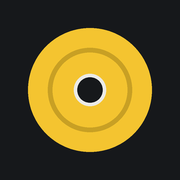
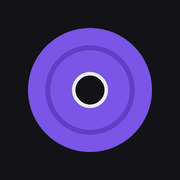
Switch the theme to charcoal greys with a midnight-purple accent
- Tokens: violet-tinted charcoal greys, --accent #7a55e6 dark / #5b3cc4
  light (white text 4.9:1+, 3.5:1 against dark surfaces), lavender
  --accent-ink for purple text. Toggles now use the accent.
- Chart colour --viz #8b6cf0 dark / #6a4bd6 light, both passing the
  dataviz palette validator against their surface.
- App icons, manifest/theme-color and the share image redrawn in the new
  colours. Set-type badges keep their bumper-plate colours.

diff --git a/src/styles.css b/src/styles.css
@@ -1,56 +1,65 @@
-/* Chalk — gym-floor graphite, chalk-white type, bumper-plate colour coding.
-   Set badges are little plates: yellow W (warm-up), red F (failure), blue D (drop),
-   and a checked set turns the row plate-green. */
+/* Chalk — violet-tinted charcoal greys with a midnight-purple accent.
+   Set badges keep bumper-plate colours: yellow W (warm-up), red F (failure),
+   blue D (drop), and a checked set turns the row plate-green. */
 
 :root,
 :root[data-theme='dark'] {
   color-scheme: dark;
-  --bg: #16181b;
-  --surface: #1f2226;
-  --surface-2: #292d32;
-  --surface-3: #353a40;
-  --line: #2f343a;
-  --text: #ecebe6;
-  --text-2: #a7abb1;
-  --text-3: #767b83;
-  --accent: #f4c430;
-  --on-accent: #17181a;
-  --accent-ink: #f4c430;
+  --bg: #131217;
+  --surface: #1b1a21;
+  --surface-2: #25242c;
+  --surface-3: #302f38;
+  --line: #2b2a33;
+  --text: #ecebf2;
+  --text-2: #a7a5b3;
+  --text-3: #76747f;
+  /* Fills with white text (4.9:1) and indicators on surfaces (3.5:1). */
+  --accent: #7a55e6;
+  --on-accent: #ffffff;
+  /* Purple text and icons on dark surfaces. */
+  --accent-ink: #b39dff;
   --done: #2e9e5b;
   --done-bg: rgb(46 158 91 / 0.16);
   --warm: #f4c430;
   --fail: #e5484d;
   --drop: #4c8df6;
   --danger: #ff6b6b;
-  --viz: #b98600;
-  --viz-wash: rgb(185 134 0 / 0.1);
-  --grid: #2a2e33;
-  --shadow: 0 10px 30px rgb(0 0 0 / 0.45);
+  --viz: #8b6cf0;
+  --viz-wash: rgb(139 108 240 / 0.12);
+  --grid: #26252d;
+  --shadow: 0 10px 30px rgb(0 0 0 / 0.5);
+  /* Google's sign-in button colours, dark variant. */
+  --google-bg: #131314;
+  --google-line: #8e918f;
+  --google-text: #e3e3e3;
 }
 
 :root[data-theme='light'] {
   color-scheme: light;
-  --bg: #f3f4f6;
+  --bg: #f3f3f6;
   --surface: #ffffff;
-  --surface-2: #eceef1;
-  --surface-3: #dfe2e6;
-  --line: #e1e4e8;
-  --text: #16181b;
-  --text-2: #4f555d;
-  --text-3: #7a8089;
-  --accent: #f4c430;
-  --on-accent: #17181a;
-  --accent-ink: #8a6400;
+  --surface-2: #ececf0;
+  --surface-3: #dedde4;
+  --line: #e2e1e8;
+  --text: #16151b;
+  --text-2: #52505e;
+  --text-3: #7a7886;
+  --accent: #5b3cc4;
+  --on-accent: #ffffff;
+  --accent-ink: #5233b3;
   --done: #1f8a4c;
   --done-bg: rgb(31 138 76 / 0.12);
   --warm: #a87a00;
   --fail: #d1343a;
   --drop: #2f6fdb;
   --danger: #c62828;
-  --viz: #a87a00;
-  --viz-wash: rgb(168 122 0 / 0.1);
-  --grid: #e8eaed;
-  --shadow: 0 10px 30px rgb(20 24 28 / 0.14);
+  --viz: #6a4bd6;
+  --viz-wash: rgb(106 75 214 / 0.1);
+  --grid: #e9e8ee;
+  --shadow: 0 10px 30px rgb(20 18 28 / 0.14);
+  --google-bg: #ffffff;
+  --google-line: #747775;
+  --google-text: #1f1f1f;
 }
 
 :root {
@@ -482,7 +491,7 @@ p {
 }
 
 .toggle input:checked + .toggle-track {
-  background: var(--done);
+  background: var(--accent);
 }
 
 .toggle input:checked + .toggle-track::after {

diff --git a/src/lib/shareCard.ts b/src/lib/shareCard.ts
@@ -15,13 +15,15 @@ const H = 1350;
 const M = 80;
 const ROW = 84;
 const C = {
-  bg: '#16181b',
-  line: '#2f343a',
-  text: '#ecebe6',
-  text2: '#a7abb1',
-  text3: '#767b83',
-  accent: '#f4c430',
-  onAccent: '#17181a',
+  bg: '#131217',
+  line: '#2b2a33',
+  text: '#ecebf2',
+  text2: '#a7a5b3',
+  text3: '#76747f',
+  accent: '#7a55e6',
+  accentInk: '#b39dff',
+  ring: '#5f3fc4',
+  onAccent: '#ffffff',
 };
 const DISPLAY = '"Big Shoulders Display Variable", "Archivo Variable", sans-serif';
 const BODY = '"Archivo Variable", system-ui, sans-serif';
@@ -80,14 +82,18 @@ function plate(ctx: CanvasRenderingContext2D, x: number, y: number, r: number) {
   ctx.beginPath();
   ctx.arc(x, y, r, 0, Math.PI * 2);
   ctx.fill();
-  ctx.strokeStyle = 'rgba(0,0,0,0.18)';
+  ctx.strokeStyle = C.ring;
   ctx.lineWidth = r * 0.08;
   ctx.beginPath();
-  ctx.arc(x, y, r * 0.62, 0, Math.PI * 2);
+  ctx.arc(x, y, r * 0.68, 0, Math.PI * 2);
   ctx.stroke();
-  ctx.fillStyle = C.onAccent;
+  ctx.fillStyle = C.text;
   ctx.beginPath();
-  ctx.arc(x, y, r * 0.2, 0, Math.PI * 2);
+  ctx.arc(x, y, r * 0.3, 0, Math.PI * 2);
+  ctx.fill();
+  ctx.fillStyle = C.bg;
+  ctx.beginPath();
+  ctx.arc(x, y, r * 0.22, 0, Math.PI * 2);
   ctx.fill();
 }
 
@@ -109,7 +115,7 @@ export async function renderWorkoutCard(data: CardData): Promise<Blob> {
 
   // Header: plate + wordmark, date on the right.
   plate(ctx, M + 22, M + 22, 22);
-  ctx.fillStyle = C.accent;
+  ctx.fillStyle = C.accentInk;
   ctx.font = `800 48px ${DISPLAY}`;
   ctx.letterSpacing = '3px';
   ctx.fillText('CHALK', M + 58, M + 39);
@@ -186,7 +192,7 @@ export async function renderWorkoutCard(data: CardData): Promise<Blob> {
     ctx.textAlign = 'right';
     if (ex.best) ctx.fillText(ex.best, W - M - trophyWidth, base);
     ctx.textAlign = 'left';
-    if (ex.record) trophy(ctx, W - M - 32, base - 29, 32, C.accent);
+    if (ex.record) trophy(ctx, W - M - 32, base - 29, 32, C.accentInk);
 
     ctx.fillStyle = C.text;
     ctx.font = `600 36px ${BODY}`;

diff --git a/src/App.tsx b/src/App.tsx
@@ -26,7 +26,7 @@ function useTheme() {
     const apply = () => {
       const resolved = theme === 'system' ? (media.matches ? 'light' : 'dark') : theme;
       document.documentElement.dataset.theme = resolved;
-      document.querySelector('meta[name="theme-color"]')?.setAttribute('content', resolved === 'light' ? '#f3f4f6' : '#16181b');
+      document.querySelector('meta[name="theme-color"]')?.setAttribute('content', resolved === 'light' ? '#f3f3f6' : '#131217');
     };
     apply();
     media.addEventListener('change', apply);

diff --git a/index.html b/index.html
@@ -3,7 +3,7 @@
   <head>
     <meta charset="UTF-8" />
     <meta name="viewport" content="width=device-width, initial-scale=1, viewport-fit=cover" />
-    <meta name="theme-color" content="#16181b" />
+    <meta name="theme-color" content="#131217" />
     <meta name="description" content="Log sets, track records and follow your progress. Works offline." />
     <meta name="apple-mobile-web-app-capable" content="yes" />
     <meta name="mobile-web-app-capable" content="yes" />

diff --git a/vite.config.ts b/vite.config.ts
@@ -24,8 +24,8 @@ export default defineConfig({
         name: 'Chalk — workout log',
         short_name: 'Chalk',
         description: 'Log sets, track records and follow your progress. Works offline.',
-        theme_color: '#16181b',
-        background_color: '#16181b',
+        theme_color: '#131217',
+        background_color: '#131217',
         display: 'standalone',
         orientation: 'portrait',
         start_url: base,

diff --git a/CLAUDE.md b/CLAUDE.md
@@ -31,7 +31,7 @@ Free, offline-first workout logger (Hevy alternative). React 19 + TypeScript + V
 - **Records:** `computeRecords()` walks workouts oldest to newest. The first session of an exercise sets the baseline and doesn't count as a record.
 
 ## Design
-- **Tokens** are in `src/styles.css` (dark default, light via `[data-theme]`).
+- **Tokens** are in `src/styles.css` (dark default, light via `[data-theme]`). The palette is violet-tinted charcoal greys with a purple accent: `--accent` #7a55e6 dark / #5b3cc4 light for fills (white text) and indicators, and `--accent-ink` for purple text. The app icons in `public/` are drawn in the same colours.
 - **Fonts:** Big Shoulders Display for titles, clocks and badges; Archivo for everything else. Both are self-hosted through Fontsource so they work offline.
-- **Set badges** use bumper-plate colours: W yellow, F red, D blue. A done row is green.
-- **Chart colour** is `--viz`: brass #b98600 dark / #a87a00 light, checked with the dataviz palette validator.
+- **Set badges** keep bumper-plate colours: W yellow, F red, D blue. A done row is green. Toggles use the accent.
+- **Chart colour** is `--viz`: #8b6cf0 dark / #6a4bd6 light, checked with the dataviz palette validator against `--surface`.
